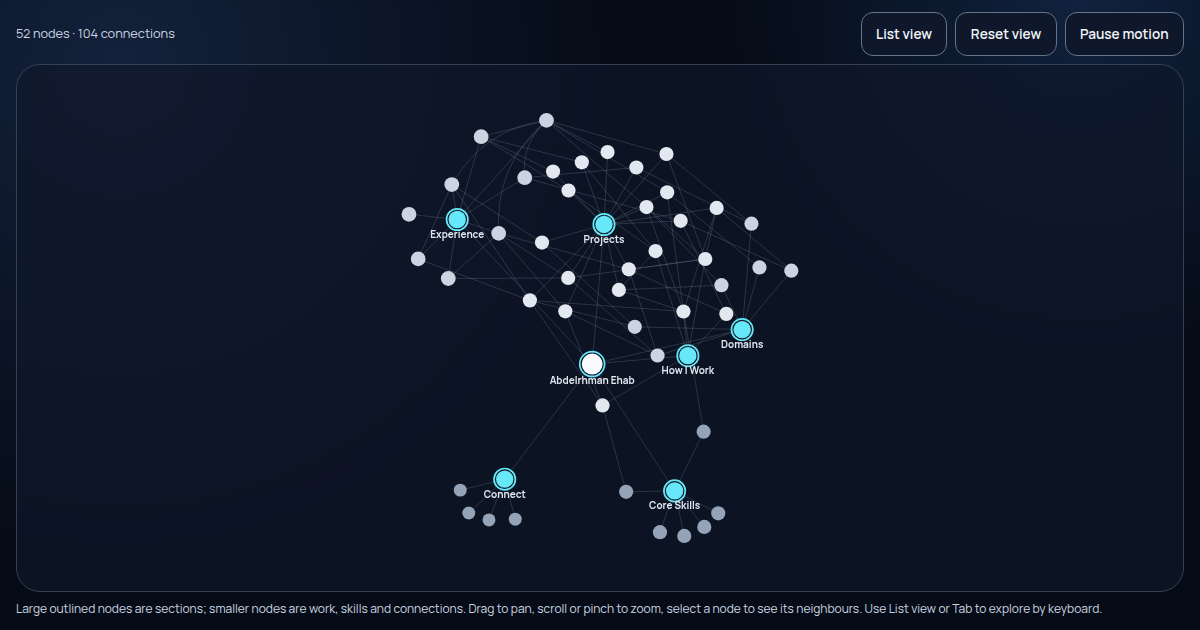
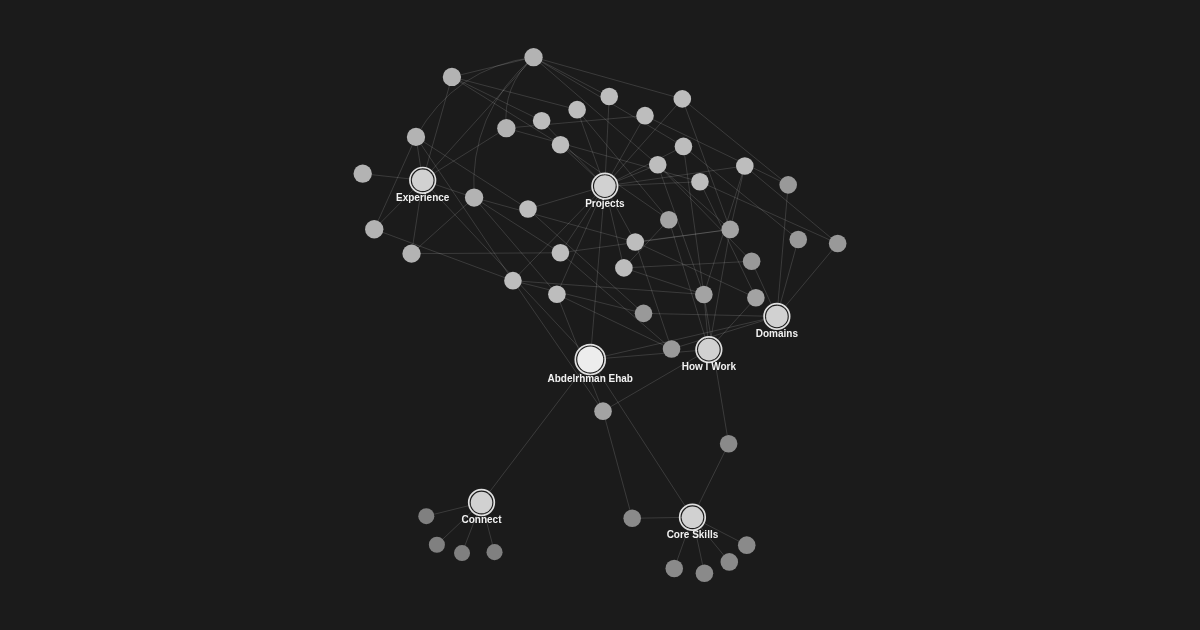
no-mistakes(review): Ease initial highlights and refresh Smoke preview and browser checks

diff --git a/src/hero-graph.js b/src/hero-graph.js
@@ -495,6 +495,11 @@ export function initHeroGraph() {
       nodes: graphNodes.map((node) => ({ ...node, val: graphGroups[node.group].size })),
       links: graphEdges.map((edge) => ({ ...edge })),
     });
+    if (!reduced) {
+      const { nodes, links } = graph.graphData();
+      for (const node of nodes) { nodeMix.set(node.id, 1); selectMix.set(node.id, 0); }
+      for (const edge of links) edgeMix.set(edge, 1);
+    }
     for (const name of ["wheel", "pointerdown", "touchstart"]) {
       host.addEventListener(name, () => { moved = true; }, { passive: true });
     }

diff --git a/README.md b/README.md
@@ -65,7 +65,7 @@ npm run test:graph
 node scripts/generate-profile.mjs /mnt/d/CVs/source/profile.md --check
 ```
 
-Pass **your own absolute profile path** if it differs. `--check` exits nonzero if the committed graph no longer matches that source; `npm run test:graph` also checks the committed model, the graph-only page and its index/metadata without needing access to the external file. CI cannot compare against a private file it cannot read, so run the profile-path check whenever the source changes. Graph node IDs and edges are structural metadata in [`scripts/graph-layout.json`](scripts/graph-layout.json); update that mapping and the generator when profile headings or product relationships change. Verified project chips and their repository provenance are site-side metadata in [`scripts/project-tags.json`](scripts/project-tags.json), not profile-derived guesses; review repository manifests/languages before editing them. Projects without verified repository evidence intentionally have no chips; note them in the PR. Do not edit generated [`src/constant/graph.js`](src/constant/graph.js) or the HTML index/SEO metadata by hand. [`src/constant/index.js`](src/constant/index.js) holds only the site-side source notices for client-owned projects, shown in their node details and index entries. The page has no sections outside the graph; everything a visitor needs must be reachable through a node. The generator applies a public-copy safety policy before any surface is emitted. The graph canvas renderer and styles live in [`src/hero-graph.js`](src/hero-graph.js) and [`src/hero-graph.css`](src/hero-graph.css). Browser evidence for the graph-only page is in [`docs/graph-only/verification.md`](docs/graph-only/verification.md); the public-copy privacy review is in [`docs/profile-sync/verification.md`](docs/profile-sync/verification.md), and earlier graph evidence remains in [`docs/graph-hero/`](docs/graph-hero/). `HERO_GRAPH_EVIDENCE_DIR=<dir> node scripts/test-hero-live.mjs` re-runs the headless Chrome checks and captures screenshots.
+Pass **your own absolute profile path** if it differs. `--check` exits nonzero if the committed graph no longer matches that source; `npm run test:graph` also checks the committed model, the graph-only page and its index/metadata without needing access to the external file. CI cannot compare against a private file it cannot read, so run the profile-path check whenever the source changes. Graph node IDs and edges are structural metadata in [`scripts/graph-layout.json`](scripts/graph-layout.json); update that mapping and the generator when profile headings or product relationships change. Verified project chips and their repository provenance are site-side metadata in [`scripts/project-tags.json`](scripts/project-tags.json), not profile-derived guesses; review repository manifests/languages before editing them. Projects without verified repository evidence intentionally have no chips; note them in the PR. Do not edit generated [`src/constant/graph.js`](src/constant/graph.js) or the HTML index/SEO metadata by hand. [`src/constant/index.js`](src/constant/index.js) holds only the site-side source notices for client-owned projects, shown in their node details and index entries. The page has no sections outside the graph; everything a visitor needs must be reachable through a node. The generator applies a public-copy safety policy before any surface is emitted. The graph canvas renderer and styles live in [`src/hero-graph.js`](src/hero-graph.js) and [`src/hero-graph.css`](src/hero-graph.css). Browser evidence for the graph-only page is in [`docs/graph-only/verification.md`](docs/graph-only/verification.md); the public-copy privacy review is in [`docs/profile-sync/verification.md`](docs/profile-sync/verification.md), and earlier graph evidence remains in [`docs/graph-hero/`](docs/graph-hero/). `HERO_GRAPH_EVIDENCE_DIR=<dir> node scripts/test-hero-live.mjs` re-runs the headless Chrome checks (including rendered Smoke contrast) and captures screenshots. When changing the graph's appearance, run `node scripts/generate-og-graph.mjs` to refresh the 1200 × 630 social preview from the fullscreen page.
 
 ## Deployment
 

diff --git a/docs/graph-only/verification.md b/docs/graph-only/verification.md
@@ -15,7 +15,7 @@ The page is the graph view alone, in the Smoke greyscale scheme. Browser screens
 - **Callout footer:** the "N connections" count is gone; the footer holds only the node's action or Copy link.
 - **No-JavaScript fallback:** at desktop and phone sizes, the interactive stage is absent and the complete generated index fills the viewport and scrolls internally. The skip link, readable profile content, and Connect actions remain available.
 - **Callout:** details remain clamped inside the graph at desktop and phone widths; the card scrolls internally when its content is taller than the available space. Escape closes it and returns focus to its source.
-- **Contrast (Smoke, WCAG 2.x):** callout title `#f2f2f2`/`#252525` 13.69:1, body `#dadada` 10.96:1, facts `#a8a8a8` 6.45:1, kicker `#c2c2c2` 8.61:1, links `#ececec` 12.98:1, tags `#dadada`/`#2b2b2b` 10.13:1, action `#1b1b1b`/`#d9d9d9` 12.20:1; list summary `#cfcfcf`/`#1b1b1b` 11.06:1, meta `#a8a8a8` 7.24:1, links 14.58:1; canvas labels `#d6d6d6` 11.85:1 and section labels `#f2f2f2` 15.39:1; darkest node fill `#808080` 4.36:1; focus ring `#ededed` 14.71:1 on the page and 13.09:1 on the callout. `npm run test:graph` re-checks these pairs from the stylesheet tokens.
+- **Contrast (Smoke, WCAG 2.x):** callout title `#f2f2f2`/`#252525` 13.69:1, body `#dadada` 10.96:1, facts `#a8a8a8` 6.45:1, kicker `#c2c2c2` 8.61:1, links `#ececec` 12.98:1, tags `#dadada`/`#2b2b2b` 10.13:1, action `#1b1b1b`/`#d9d9d9` 12.20:1; list summary `#cfcfcf`/`#1b1b1b` 11.06:1, meta `#a8a8a8` 7.24:1, links 14.58:1; canvas labels `#d6d6d6` 11.85:1 and section labels `#f2f2f2` 15.39:1; darkest node fill `#808080` 4.36:1; focus ring `#ededed` 14.71:1 on the page and 13.09:1 on the callout. The headless Chrome checks sample computed text/focus colours and rendered canvas pixels for contrast and neutrality.
 - **Fallback status:** the `role="status"` announcement stays outside the graph stage so it remains available if the graph library fails and the stage is hidden.
 
 Re-run the checks with:
@@ -26,4 +26,4 @@ HERO_GRAPH_EVIDENCE_DIR=/tmp/hero-live node scripts/test-hero-live.mjs
 HERO_GRAPH_EVIDENCE_DIR=/tmp/callout-live node scripts/test-callout-live.mjs
 ```
 
-The live tests assert fullscreen geometry, flat Smoke background, missing toolbar, zero page overflow, keyboard list/reset paths, callout entrance/exit/Read more motion and its reduced-motion absence, the missing connection count, callout clamping, library failure, and JavaScript-disabled fallbacks in Chrome.
+The live tests assert fullscreen geometry, flat Smoke background, rendered palette and computed contrast, missing toolbar, zero page overflow, keyboard list/reset paths, callout entrance/exit/Read more motion and its reduced-motion absence, the missing connection count, callout clamping, library failure, and JavaScript-disabled fallbacks in Chrome. Regenerate the social preview at its original dimensions with `node scripts/generate-og-graph.mjs` after changing the graph appearance.
